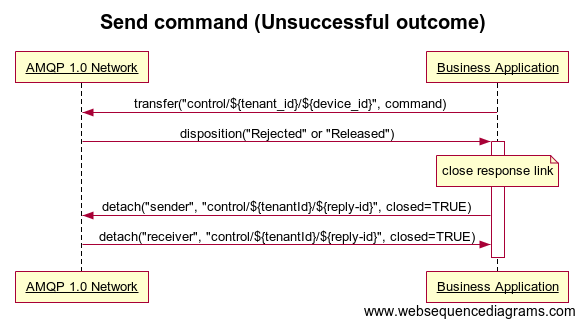
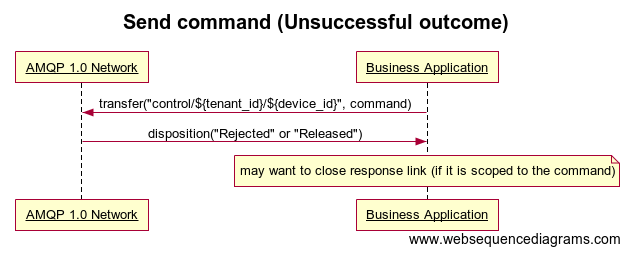
[#808] Adopted to PR comments.
The section regarding the possibilities of setting the reply-id was
reworked.

diff --git a/site/content/api/Command-And-Control-API.md b/site/content/api/Command-And-Control-API.md
@@ -40,9 +40,18 @@ the *Business Application* needs to open a receiver link as precondition:
 
 1. The *Business Application* has established an AMQP link in role *receiver* with the source address `control/${tenant_id}/${reply-id}`.
 This link is used by the *Business Application* to receive the response of the executed command. This link’s source address is also referred to as `the reply-to address` for the request messages. 
-2. The `${reply-id}` may be any arbitrary string chosen by the client.  
+2. The `${reply-id}` may be any arbitrary string chosen by the client. 
 
-To scope a response to the device the `${reply-id}` should consist of the device-id plus an arbitrary string to scope the command sender instance. If all responses shall be received just in the context of the tenant, the device-id has to be omitted.   
+### Choosing a strategy for building the receiver link address
+
+While the `${reply-id}` can be completely chosen by the client, the specific use case for sending commands may influence 
+how it should be set.
+Thus following hints for choosing the right `${reply-id}` may be helpful:
+
+- if only one command response is expected from the device, the `${reply-id}` could be set to a UUID and closed again after receiving the response.
+- if several command responses are expected from the device (e.g. since multiple commands were or will be sent to it),  the `${reply-id}` could be set to the `${device_id}` plus an arbitrary string to scope the command sender instance. Such a link should usually remain open after the reception of any response. 
+- if all command responses for the `${tenant_id}` shall be received in the application,  the `${reply-id}` could be set to just an arbitrary (short) string to scope the command sender instance (without the `${device_id}`). Such a link should usually remain open after the reception of any response.
+
 
 **Link establishment**
 
@@ -51,7 +60,7 @@ The following sequence diagram shows the necessary links that need to be establi
 ![Send Command](../command_control_receive_preconditions.png)
 
 # Outcomes for sending a command or notification command
-Commands and notification commands that are forwarded by the AMQP 1.0 network to a protocol adapter need to be responded with following outcomes:
+Commands and notification commands that are forwarded by the AMQP 1.0 network to a protocol adapter need to be responded with one of the following outcomes:
 
 | Processing in protocol adapter   | AMQP outcome                  |
 |----------------------------------|------------------------------ |
@@ -59,14 +68,14 @@ Commands and notification commands that are forwarded by the AMQP 1.0 network to
 | Device not connected (anymore)   | Release                       | 
 | Command delivered                | Accepted                      | 
 
-For any outcome except for `Accepted` the *Business application* should immediately close the response receiver link again, 
-if it was scoped to exactly one command response. If the receiver link is scoped to the tenant, it usually should remain 
-open.
+Depending on the strategy for the receiver link address (see [Strategy for building the receiver link address]({{< relref "#choosing-a-strategy-for-building-the-receiver-link-address">}}) ), the *Business application* may want to close the response receiver
+link again if the outcome was not set to `Accepted`.
 
 
 # Operations
 
-The following API defines operations that can be used by *Business Applications* to send commands or notification commands to devices over an AMQP 1.0 Network and get a response in return to a sent command.
+The following API defines operations that can be used by *Business Applications* to send commands (which get a response 
+in return) or notification commands to devices over an AMQP 1.0 Network.
 
 ## Send a Notification Command
 
